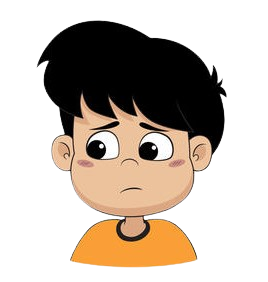
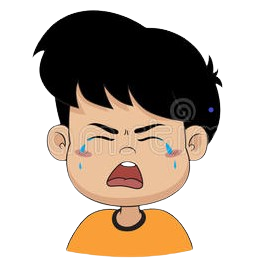
api

Changed region(s): [[0.1098, 0.0302, 0.8784, 0.9962], [0.1647, 0.3019, 0.2196, 0.3925]]

diff --git a/lib/Screens/EmotionScreen.dart b/lib/Screens/EmotionScreen.dart
@@ -32,24 +32,26 @@ class _EmotionScreenState extends State<EmotionScreen> {
   @override
   Widget build(BuildContext context) {
     return Scaffold(
-      body: RefreshIndicator (
-        onRefresh: () => onRefresh(),
-        child: loading ? const Loading() : ListView(children: [Center(child: emotion)])),
+      body: RefreshIndicator(
+          onRefresh: () => onRefresh(),
+          child: loading
+              ? const Loading()
+              : ListView(children: [Center(child: emotion)])),
     );
   }
 
-  Future<void> onRefresh() async{
-     setState(() {
-              loading = true;
-            });
-          await _statusController.getStatus().then((value) {
-            setState(() {
-              emotion = value;
-            });
-          }).then((value) {
-            setState(() {
-              loading = false;
-            });
-          });
+  Future<void> onRefresh() async {
+    setState(() {
+      loading = true;
+    });
+    await _statusController.getStatus().then((value) {
+      setState(() {
+        emotion = value;
+      });
+    }).then((value) {
+      setState(() {
+        loading = false;
+      });
+    });
   }
 }

diff --git a/lib/Controllers/emotion.dart b/lib/Controllers/emotion.dart
@@ -12,19 +12,7 @@ class EmotionController extends GetxController {
 
     var value = jsonDecode(response.body);
 
-    if (value.toLowerCase() == 'happy') {
-      return EmotionStatus(
-        status: value,
-      );
-    } else if (value.toLowerCase() == 'sad') {
-      return EmotionStatus(
-        status: value,
-      );
-    } else if (value.toLowerCase() == 'cry') {
-      return EmotionStatus(
-        status: value,
-      );
-    } else if (value.toLowerCase() == 'angry') {
+    if (value.toLowerCase() != '') {
       return EmotionStatus(
         status: value,
       );

diff --git a/lib/Widgets/emotion_status.dart b/lib/Widgets/emotion_status.dart
@@ -16,6 +16,8 @@ class EmotionStatus extends StatelessWidget {
           radius: 150,
           child: Image.asset(
             'assets/images/${status.toLowerCase()}.png',
+            width: 250,
+            height: 250,
             fit: BoxFit.cover,
           ),
         ),
